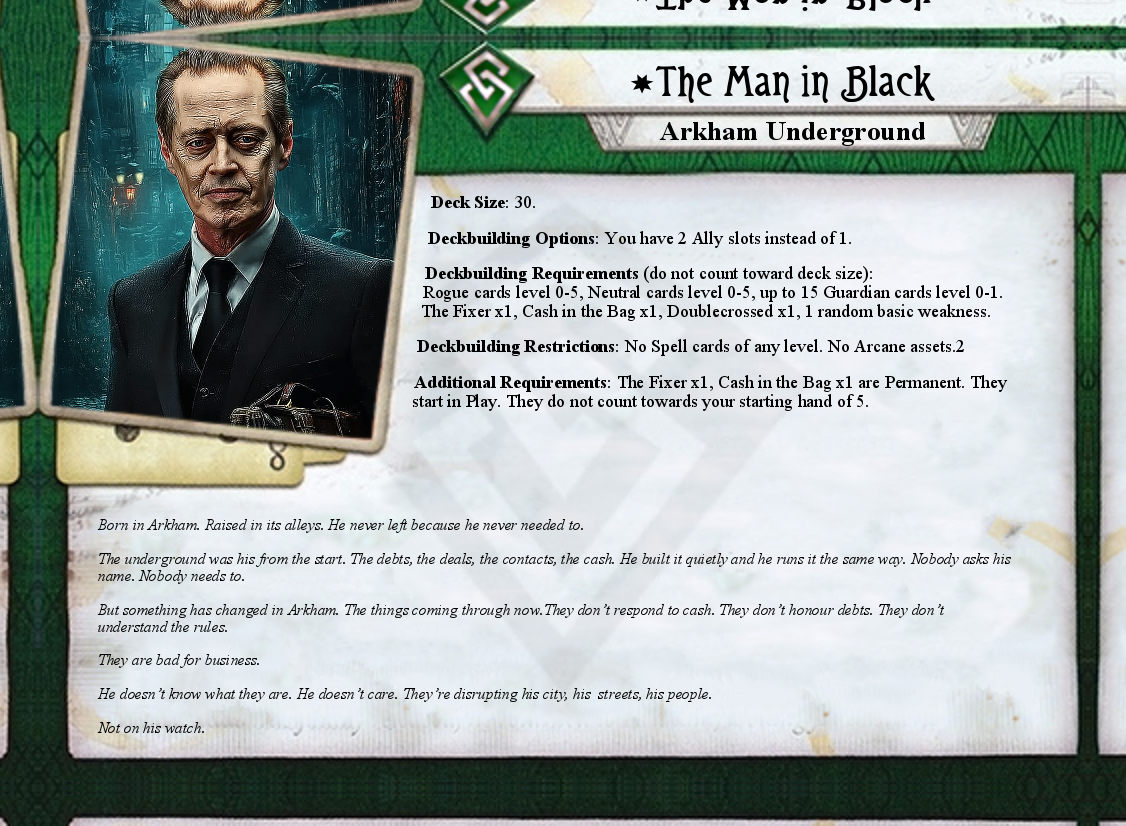
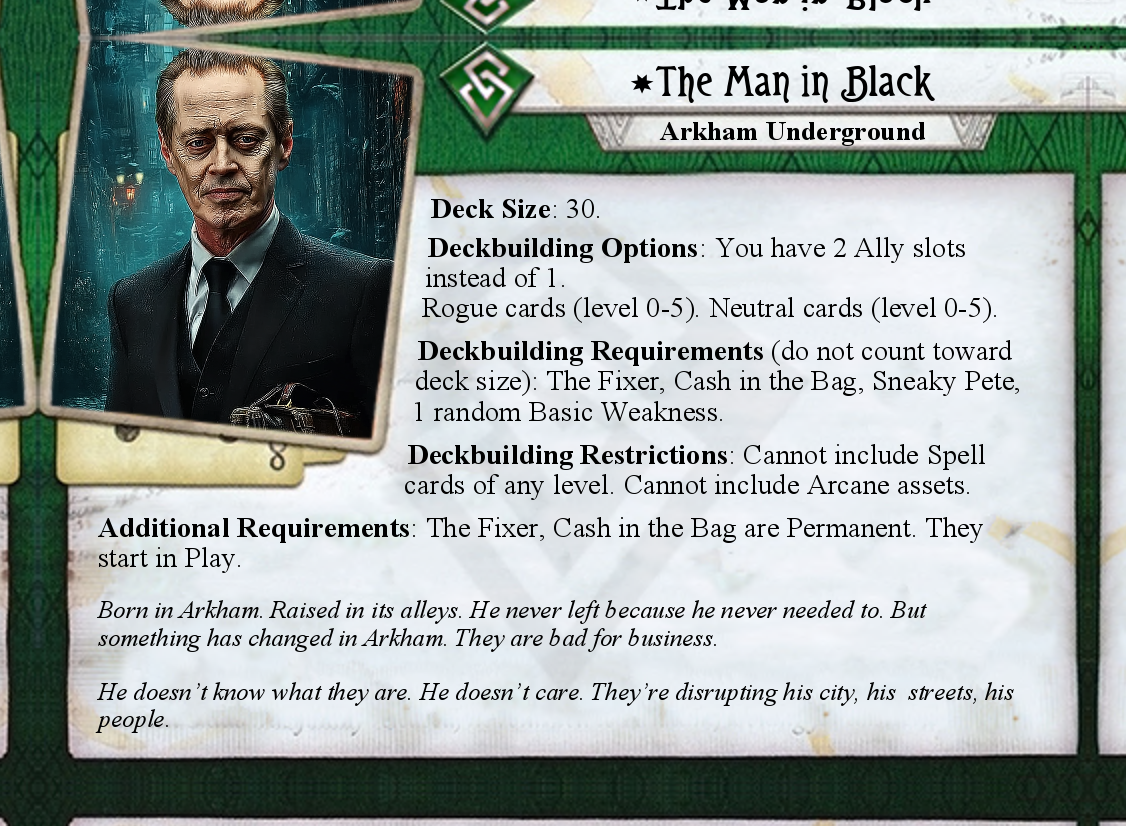
The Man in Black 001: Card-Data locked, new exports renamed correctly -- EON preserved

Changed region(s): [[0.0933, 0.5448, 0.9014, 0.908], [0.373, 0.2421, 0.9014, 0.5145]]

diff --git a/games/arkham-lcg/investigators/custom-1/The Man in Black/The-Man-in-Black-Card-Data.md b/games/arkham-lcg/investigators/custom-1/The Man in Black/The-Man-in-Black-Card-Data.md
@@ -18,7 +18,7 @@
 | **Agility** | 4 |
 | **Health** | 7 |
 | **Sanity** | 7 |
-| **Deckbuilding** | Rogue cards level 0-5, Neutral cards level 0-5, up to 15 Guardian cards level 0-1. No Spell cards of any level. No Arcane assets. You have 2 Ally slots instead of 1. |
+| **Deckbuilding** | Deck size: 30. Rogue cards (level 0-5). Neutral cards (level 0-5). |
 
 ### Ability
 At the start of the round: You may spend any number of resources. Choose 1 skill (WIL, INT, COM, or AGI). For each 2 resources spent, get +1 to that skill until the end of the round.
@@ -42,11 +42,28 @@ Not on his watch.
 ### Flavor
 *"Cash in the bag. No questions. That's the deal."*
 
-### Requirements
-- The Fixer ×1 (Permanent)
-- Cash in the Bag ×1 (Permanent)
-- Sneaky Pete ×1 (Weakness)
-- 1 random basic weakness
+### Deckbuilding Options
+```
+Deck size: 30.
+Rogue cards (level 0-5).
+Neutral cards (level 0-5).
+```
+
+### Deckbuilding Restrictions
+```
+The Fixer and Cash in the Bag begin
+the game in play. Both are permanent.
+Cannot include Spell cards of any level.
+Cannot include Arcane assets.
+You have 2 Ally slots instead of 1.
+```
+
+### Deckbuilding Requirements
+```
+(do not count toward deck size)
+The Fixer, Cash in the Bag,
+Sneaky Pete, 1 random Basic Weakness.
+```
 
 ---
 
